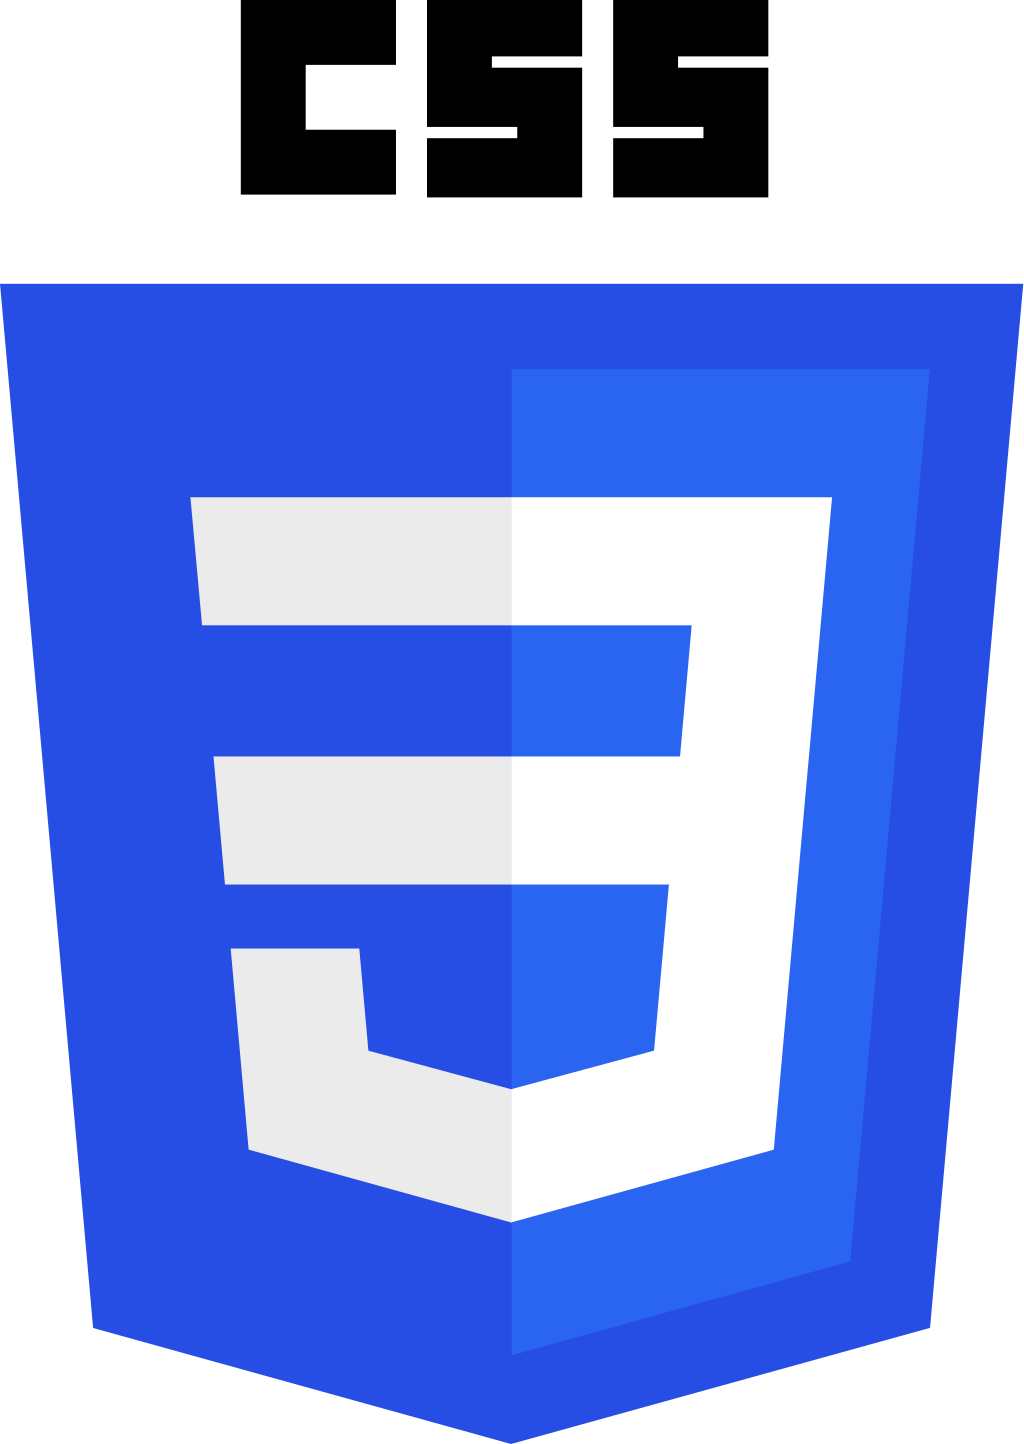
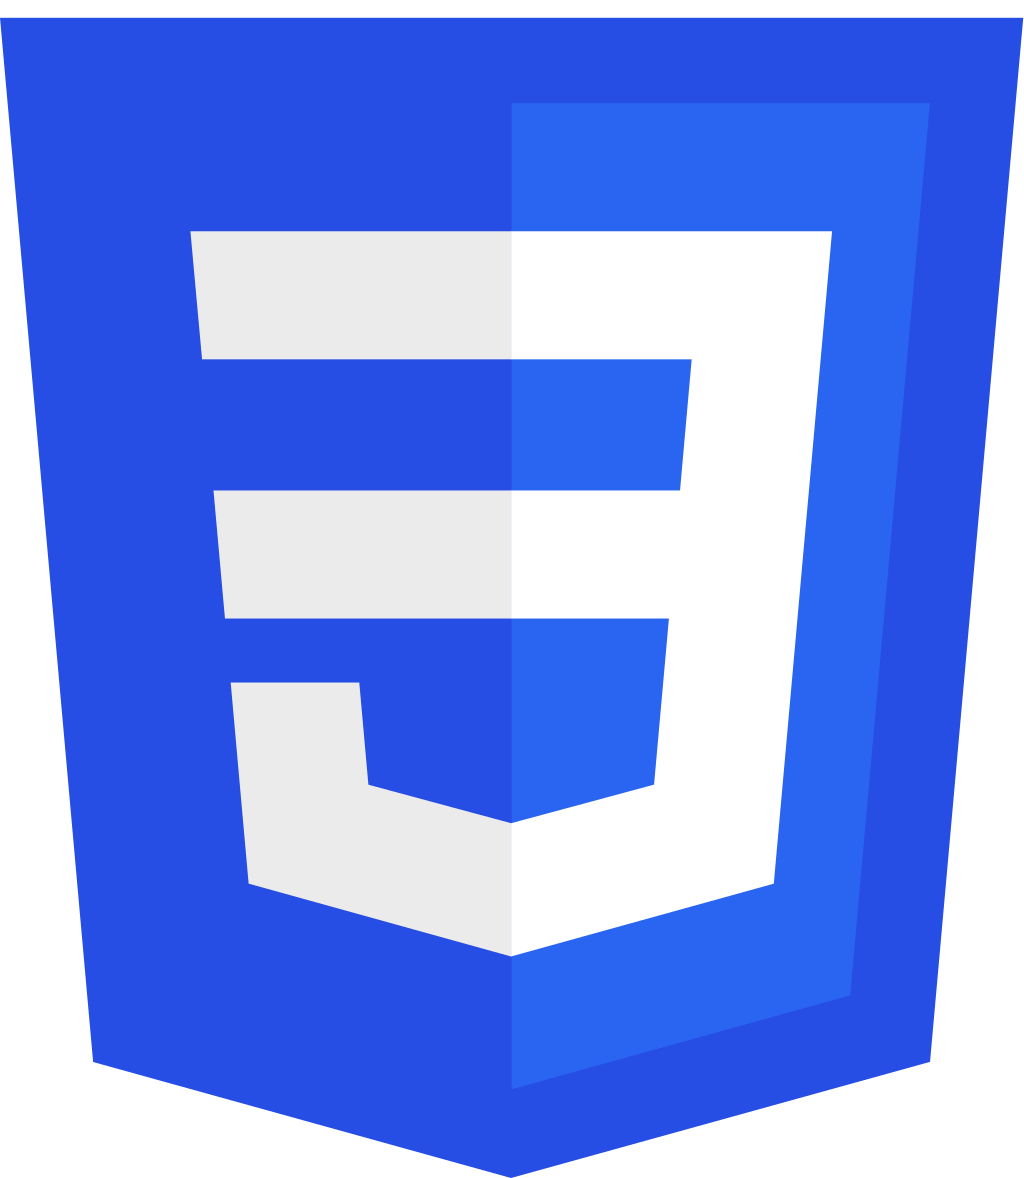
altered images so there is no longer any text, fixed some reactivity issues with contact and portfolio html

diff --git a/portfolio.html b/portfolio.html
@@ -14,7 +14,7 @@
                     <div class="col-md-1"></div>
                     <!--Left Content Column-->
                     <div class="left col-md-3">
-                        <div class="card">
+                        <div id="profilecard" class="card">
                                 <img id="profileimg" class="card-img-top" src="assets/images/pfp.png" alt="Profile Image">
                                 <div class="card-body">
                                   <h5 class="card-title">Abigail DeJesús</h5>
@@ -35,7 +35,7 @@
                             <div id="gallery-container">
                                     <!--individual card for portfolio item-->
                                     <div class="card gallery-card">
-                                            <a href="https://github.com/lowwrena1/Project1" target="_blank"><img class="card-img-top portfolioimg" src="assets/images/project1prev.png" alt="Card image cap"></a>
+                                            <a href="https://github.com/axaABIGAILi/Project1" target="_blank"><img class="card-img-top portfolioimg" src="assets/images/project1prev.png" alt="Card image cap"></a>
                                             <div class="card-body">
                                               <p class="card-text">"Sunny With A Chance Of..." Web app devoloped collaberatively using HTML, CSS, JavaScript, jQuery and AJAX. Takes a zip code input and recommends a beverage.</p>
                                             </div>
@@ -89,7 +89,7 @@
                                         </div></div>
                                         <!--individual card for portfolio item-->
                                         <div id="gall-middle" class="card gallery-card">
-                                                <a href="https://github.com/tp222/Project-2"><img class="card-img-top" src="assets/images/lit-fitprev.png" alt="Lit-Fit preview"></a>
+                                                <a href="https://github.com/axaABIGAILi/Project-2"><img class="card-img-top" src="assets/images/lit-fitprev.png" alt="Lit-Fit preview"></a>
                                                 <div class="card-body">
                                                 <p class="card-text">Lit-Fit is a collaberative project made for class. This app tracks a reader's reading progress by taking in info on the books they are reading and displaying it in a convenient to read table. Technologies used include HTML, CSS, MySQL/Sequelize, Node and Express, deployed on Heroku.</p></div>
                                         </div>

diff --git a/contact.html b/contact.html
@@ -14,7 +14,7 @@
                     <div class="col-md-1"></div>
                     <!--Left Content Column-->
                     <div class="left col-md-3">
-                        <div class="card">
+                        <div id="profilecard" class="card">
                                 <img id="profileimg" class="card-img-top" src="assets/images/pfp.png" alt="Profile Image">
                                 <div class="card-body">
                                   <h5 class="card-title">Abigail DeJesús</h5>

diff --git a/assets/css/style.css b/assets/css/style.css
@@ -132,10 +132,15 @@ form {
     }
 }
 
-@media (min-width: 768px) {
+@media only screen and (min-width: 768px) {
     .left, .right {
         height: 550px;
         overflow: auto;
+    }
+
+    #profileimage {
+        width: 20%;
+        height: auto;
     }
 
     #profilecard {
